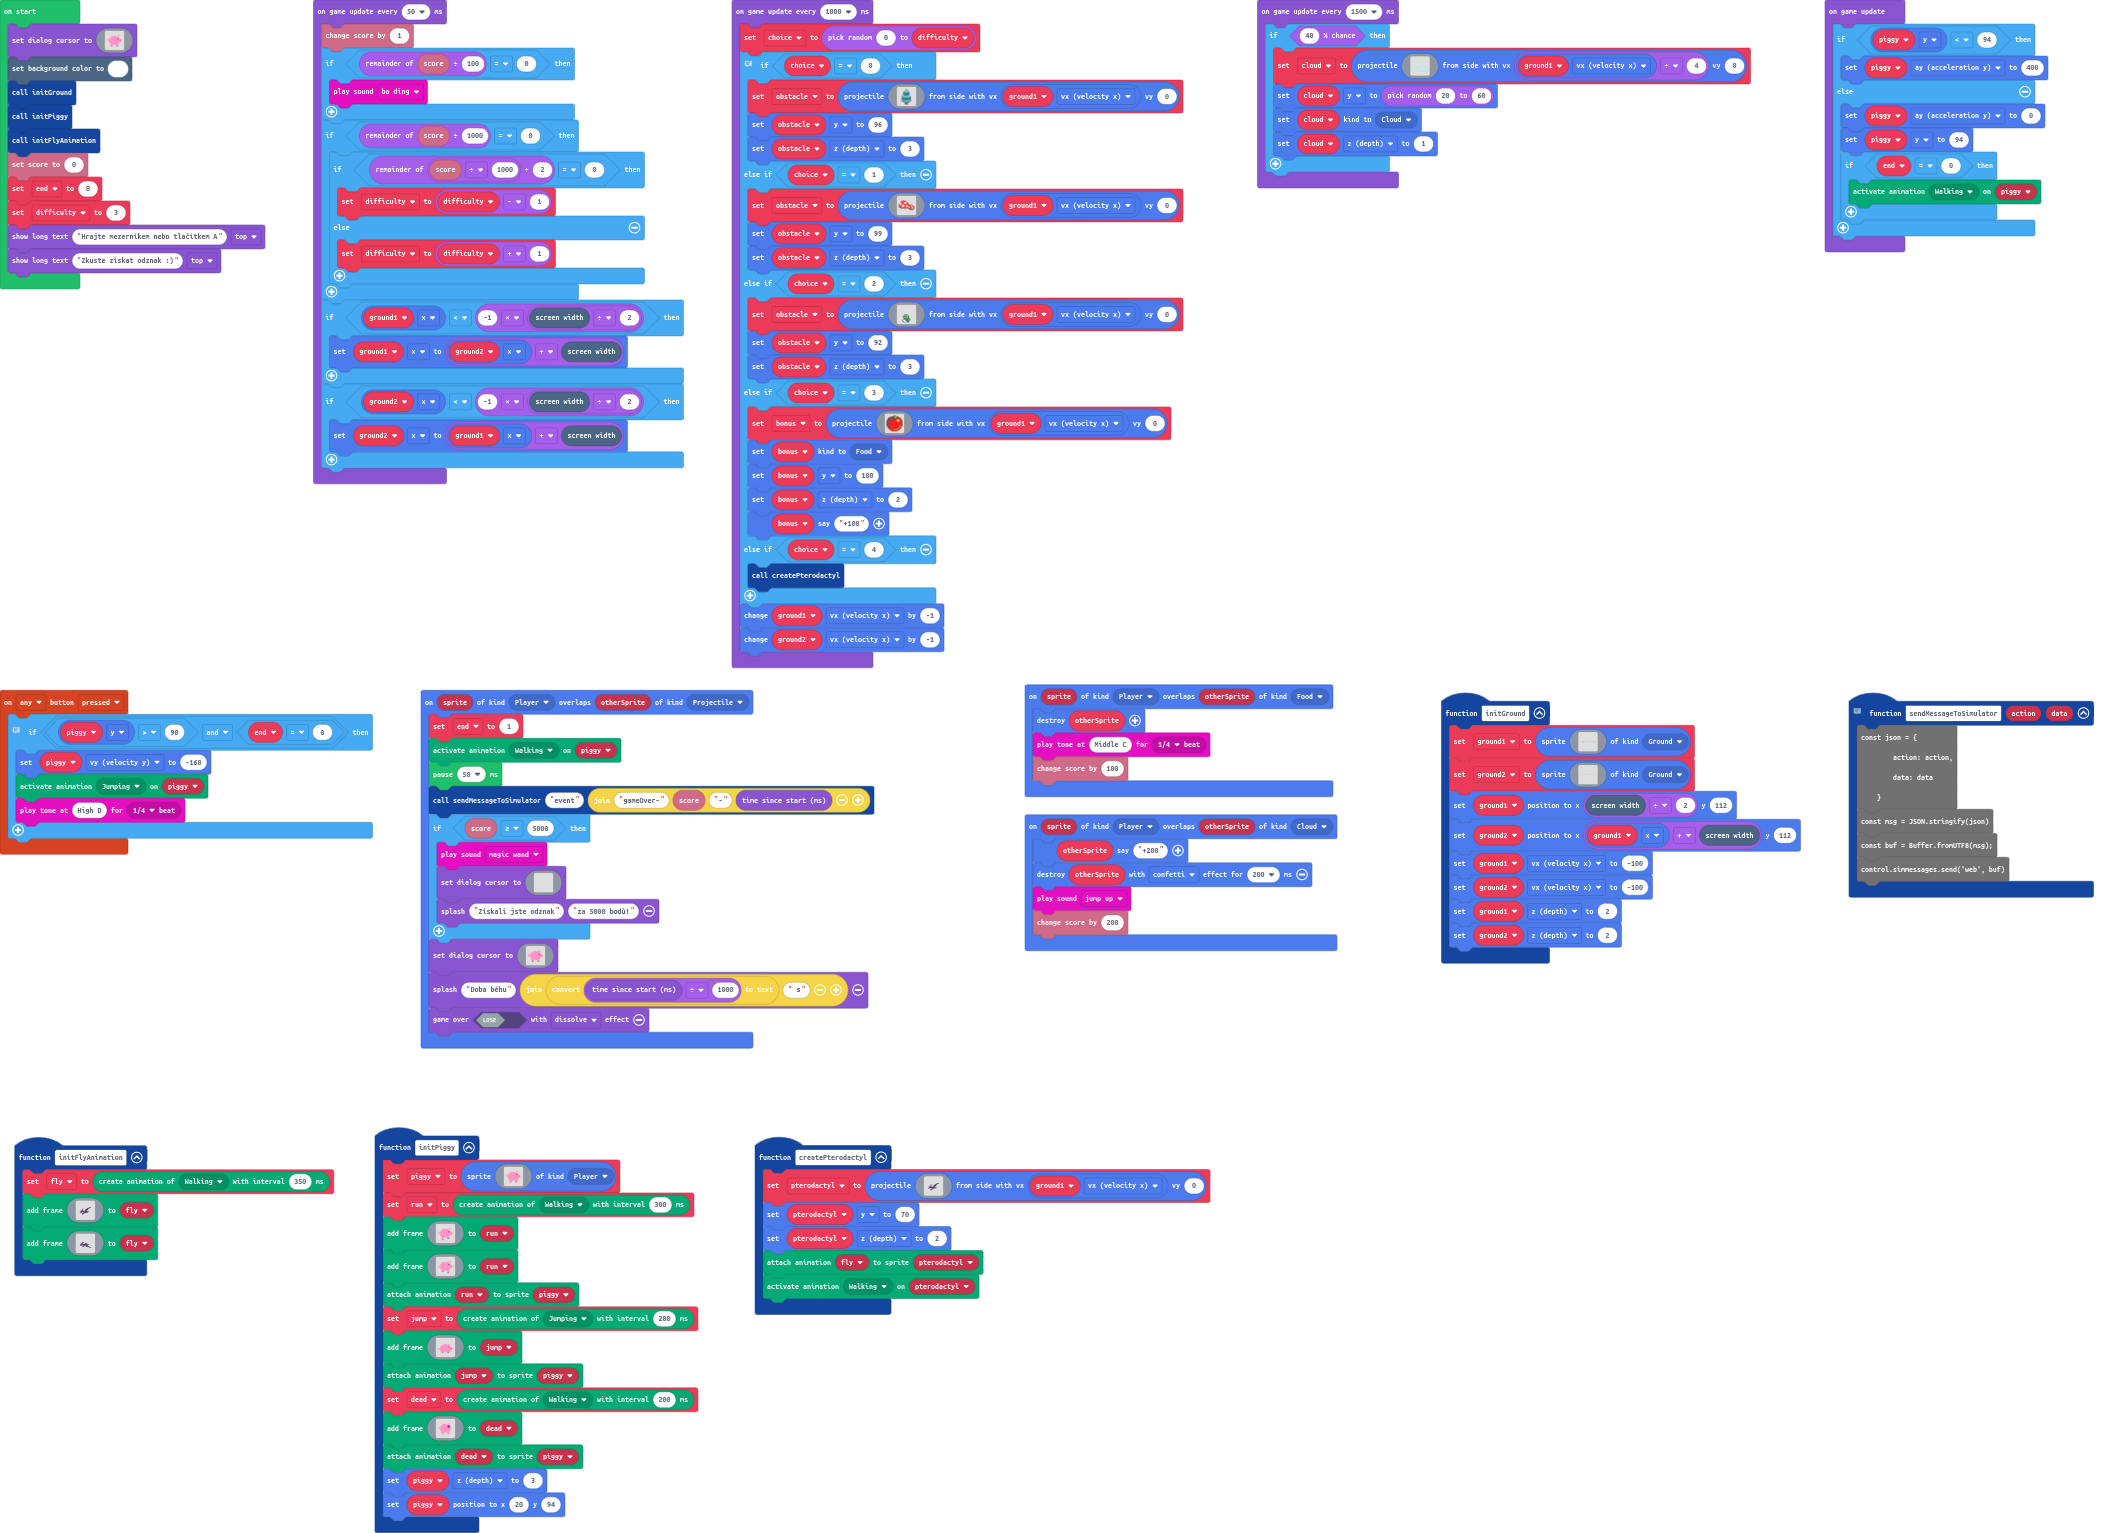
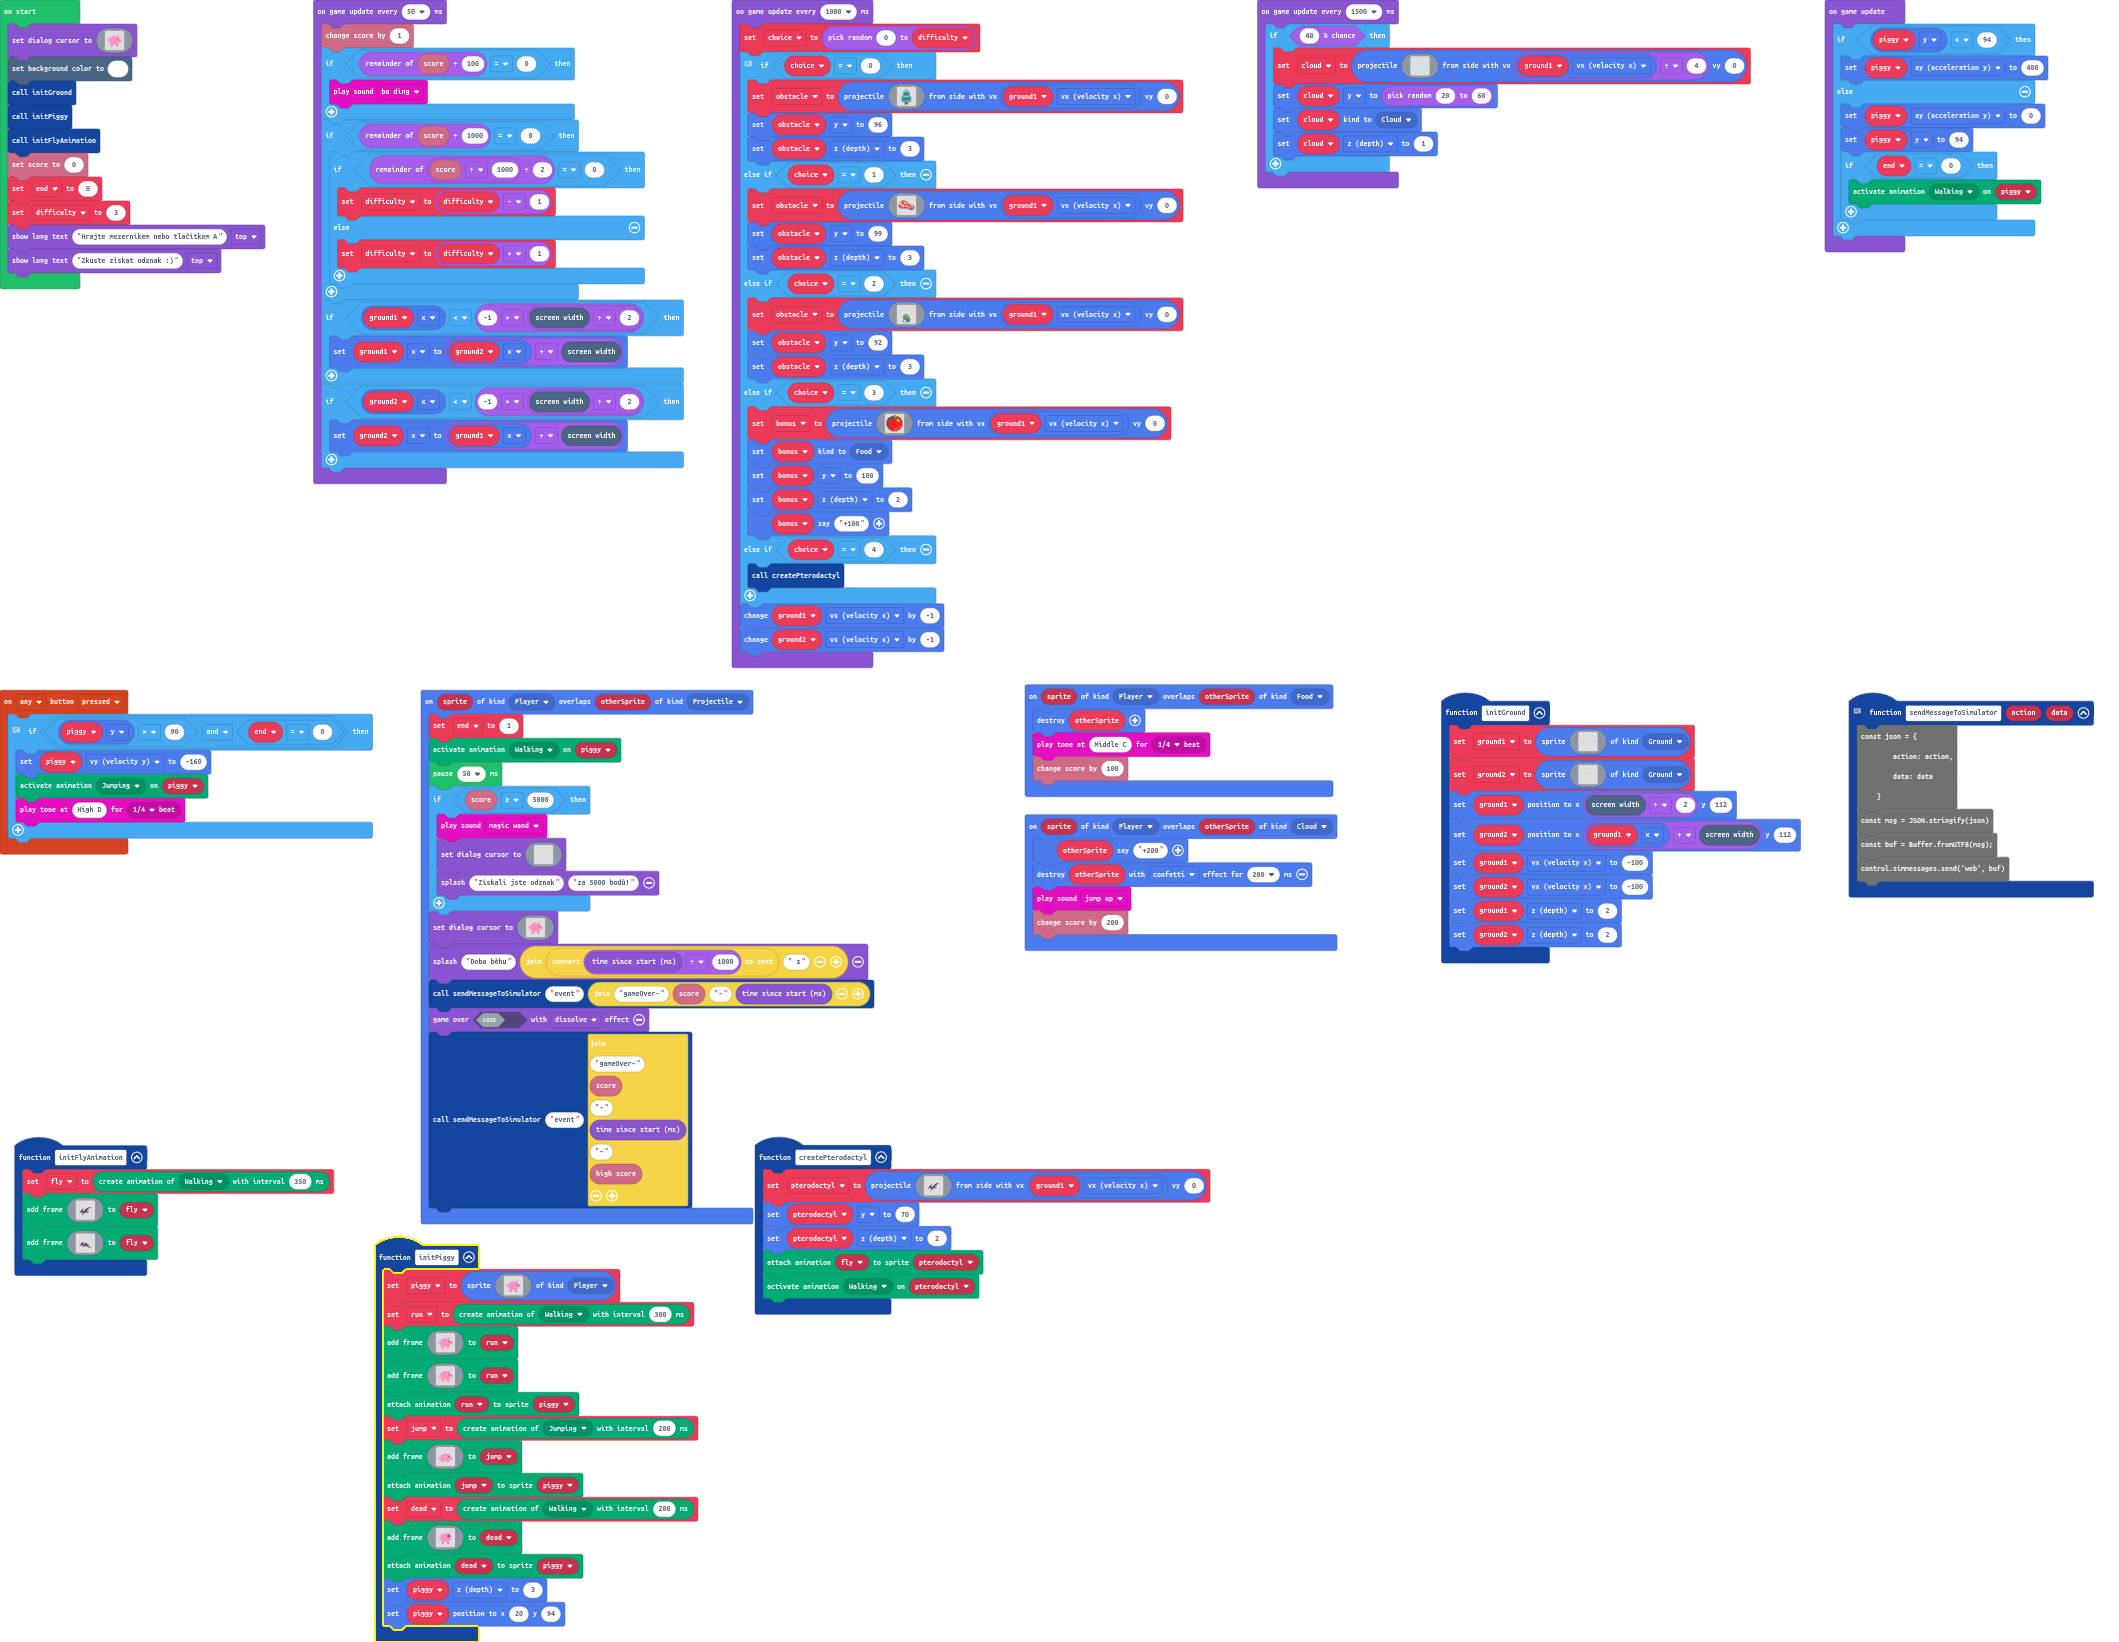
Update main.blocks, main.ts

diff --git a/main.ts b/main.ts
@@ -64,7 +64,6 @@ sprites.onOverlap(SpriteKind.Player, SpriteKind.Projectile, function (sprite, ot
     end = 1
     animation.setAction(piggy, ActionKind.Dead)
     pause(50)
-    sendMessageToSimulator("event", "gameOver-" + info.score() + "-" + game.runtime())
     if (info.score() >= 5000) {
         music.magicWand.play()
         game.setDialogCursor(img`
@@ -89,7 +88,9 @@ sprites.onOverlap(SpriteKind.Player, SpriteKind.Projectile, function (sprite, ot
     }
     game.setDialogCursor(assets.image`piggy 1`)
     game.splash("Doba běhu", "" + convertToText(game.runtime() / 1000) + " s")
+    sendMessageToSimulator("event", "gameOver-" + info.score() + "-" + game.runtime())
     game.over(false, effects.dissolve)
+    sendMessageToSimulator("event", "gameOver-" + info.score() + "-" + game.runtime() + "-" + info.highScore())
 })
 function initFlyAnimation () {
     fly = animation.createAnimation(ActionKind.Flying, 350)
